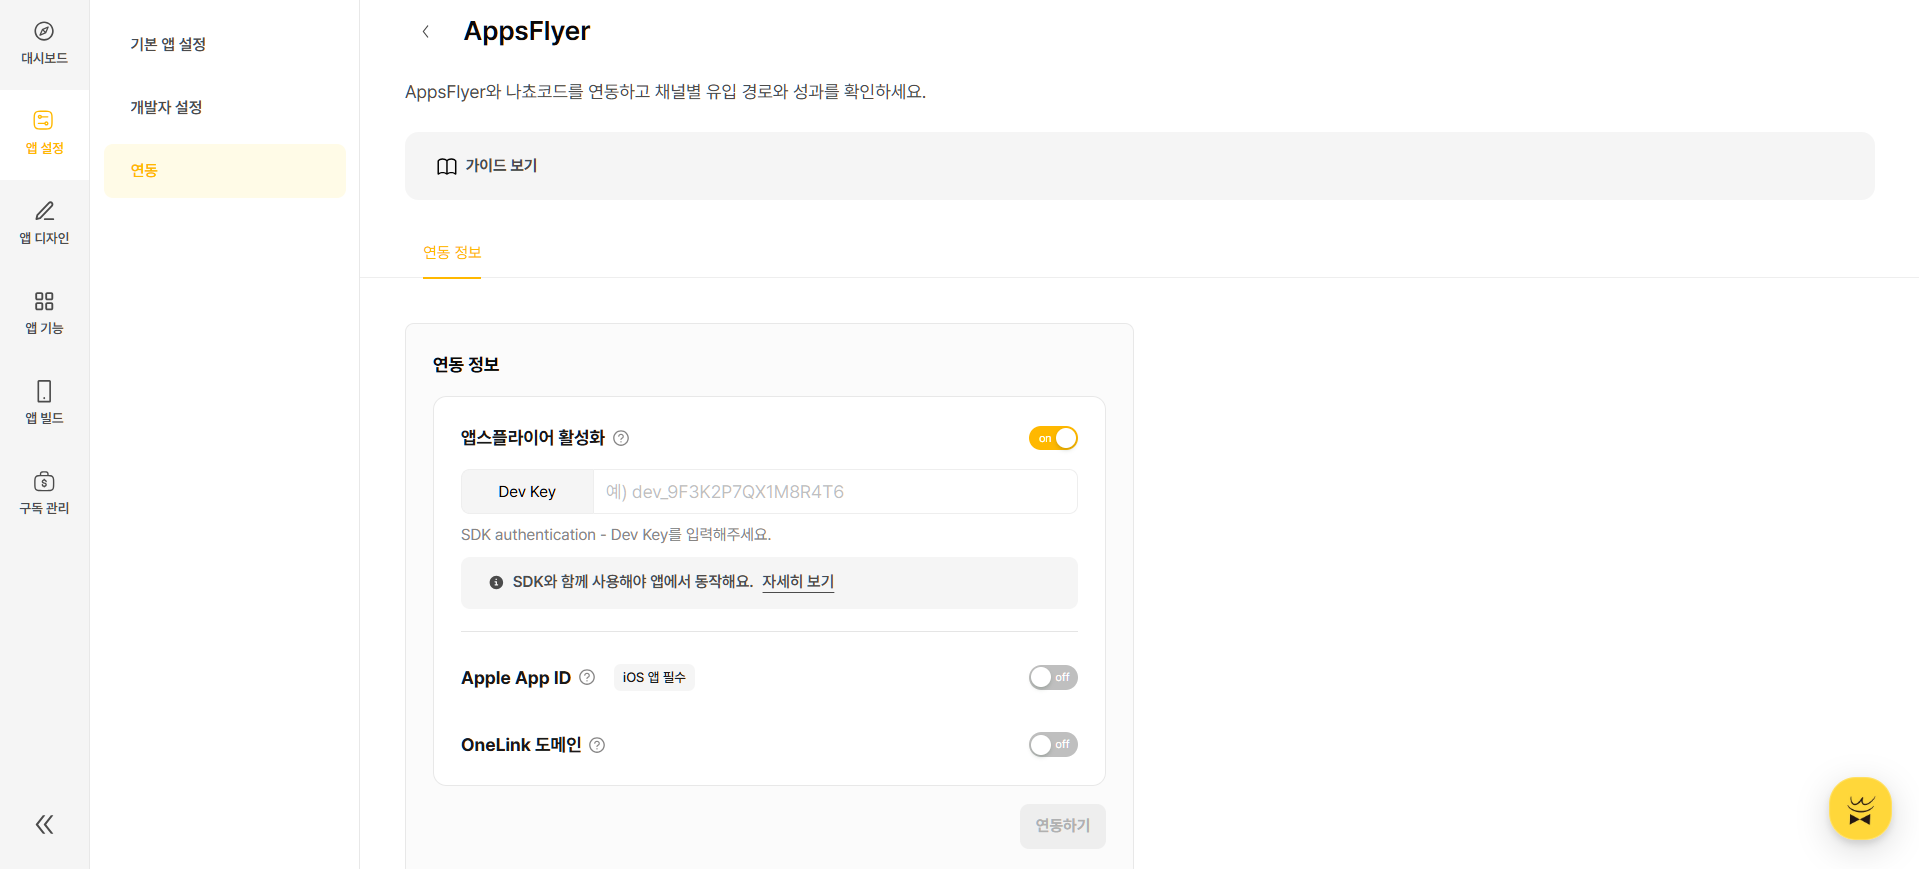
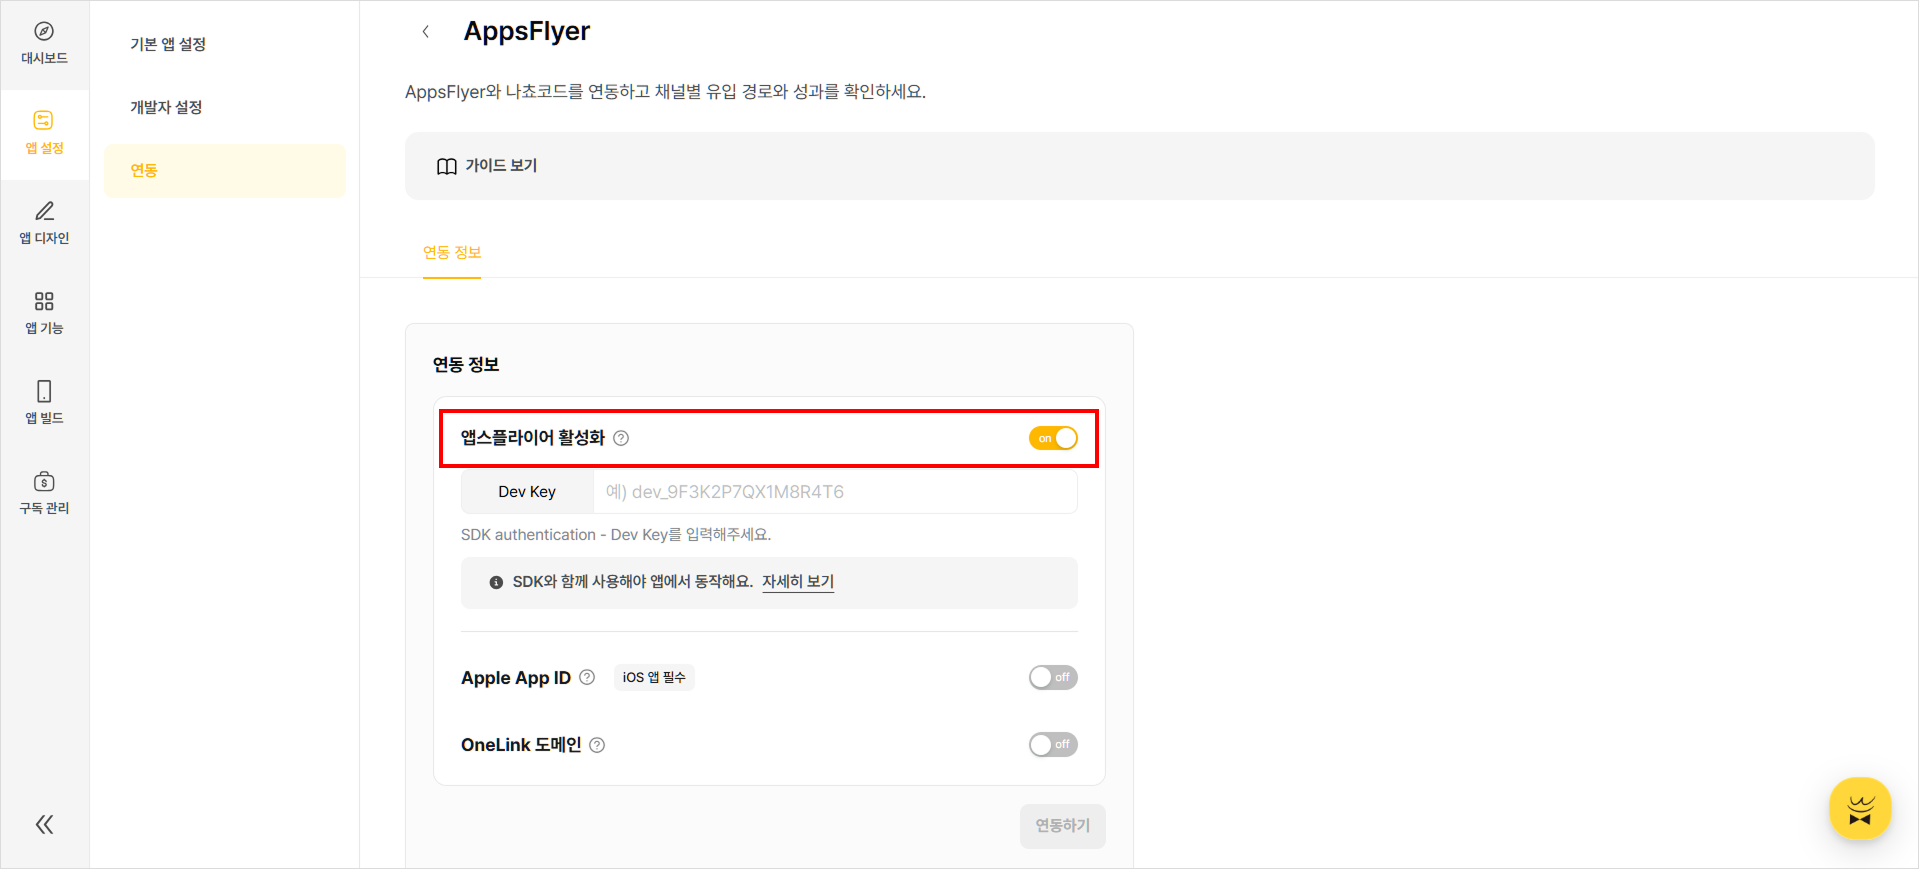
Upload : appsflyer integrate images uploaded

Changed region(s): [[0.0, 0.9942, 1.0, 1.0], [0.2152, 0.4661, 0.5842, 0.4971], [0.246, 0.5282, 0.5842, 0.5593]]

diff --git a/docs/sdk/integrations/appsflyer/integrate.md b/docs/sdk/integrations/appsflyer/integrate.md
@@ -125,7 +125,7 @@ nachocode SDK로 **AppsFlyer 연동 기능**을 사용하기 위해서는 아래
 
 원링크를 사용하는 경우, 도메인을 nachocode에 등록해야 합니다.
 
-![nachocode_dashboard_linked_services_appsflyer](/img/docs/appsflyer/nachocode_dashboard_linked_services_appsflyer.png)
+![nachocode_dashboard_linked_services_appsflyer_onelink](/img/docs/appsflyer/nachocode_dashboard_linked_services_appsflyer_onelink.png)
 
 앱스플라이어에서 발급받은 **원링크 도메인** ([4단계](#prerequisite-step-4)에서 복사한 값)을 OneLink 도메인에 등록해주세요.
 
